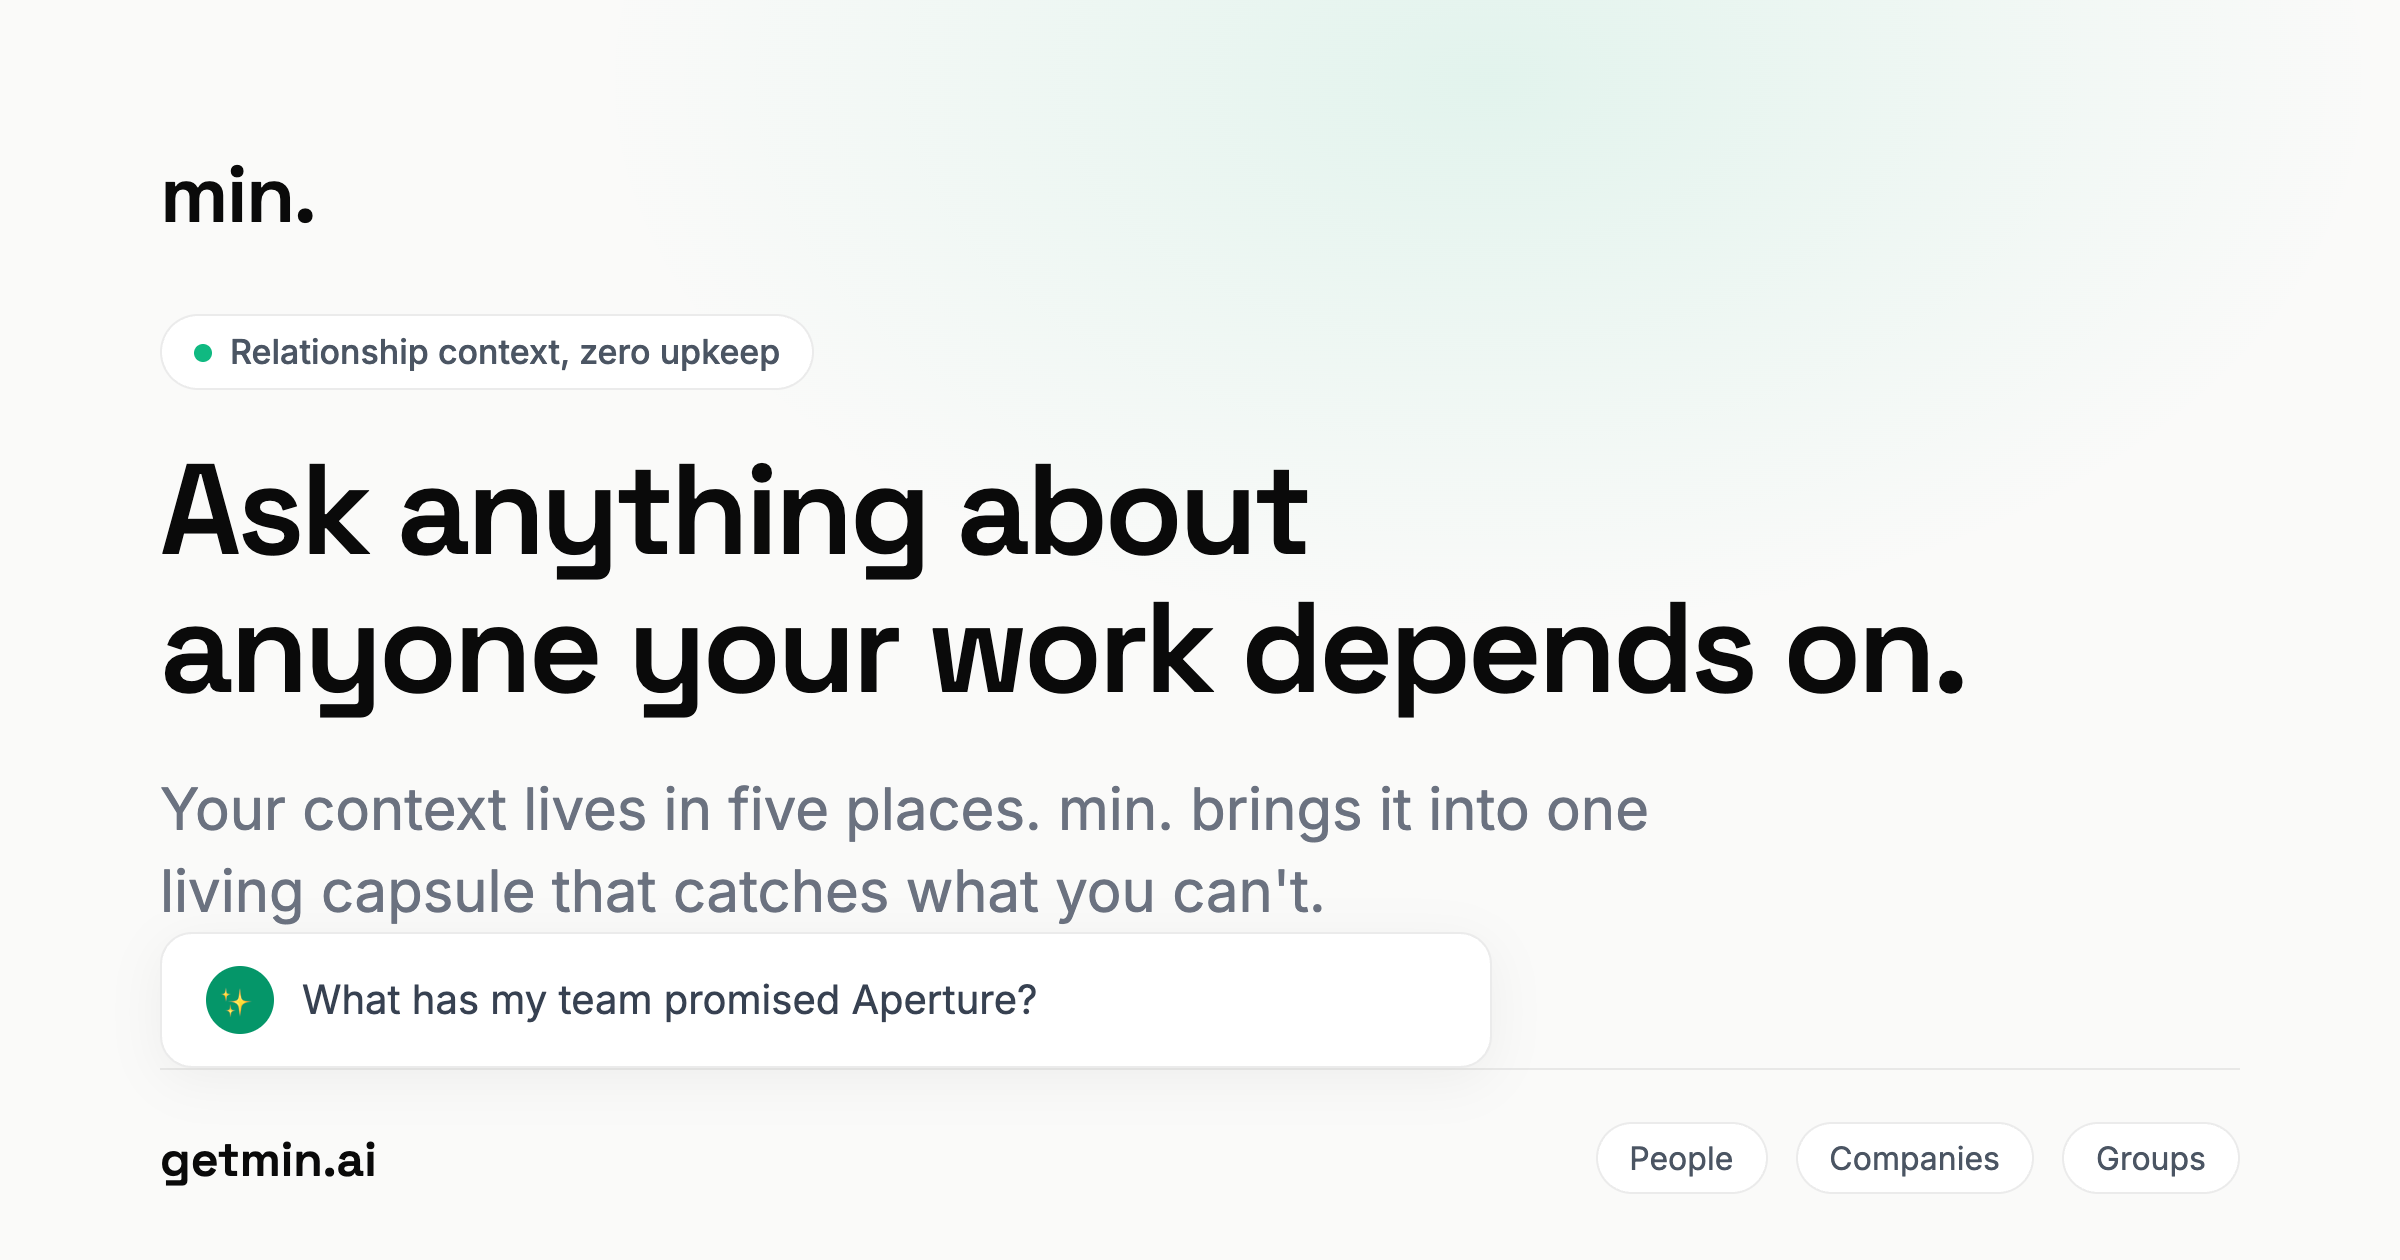
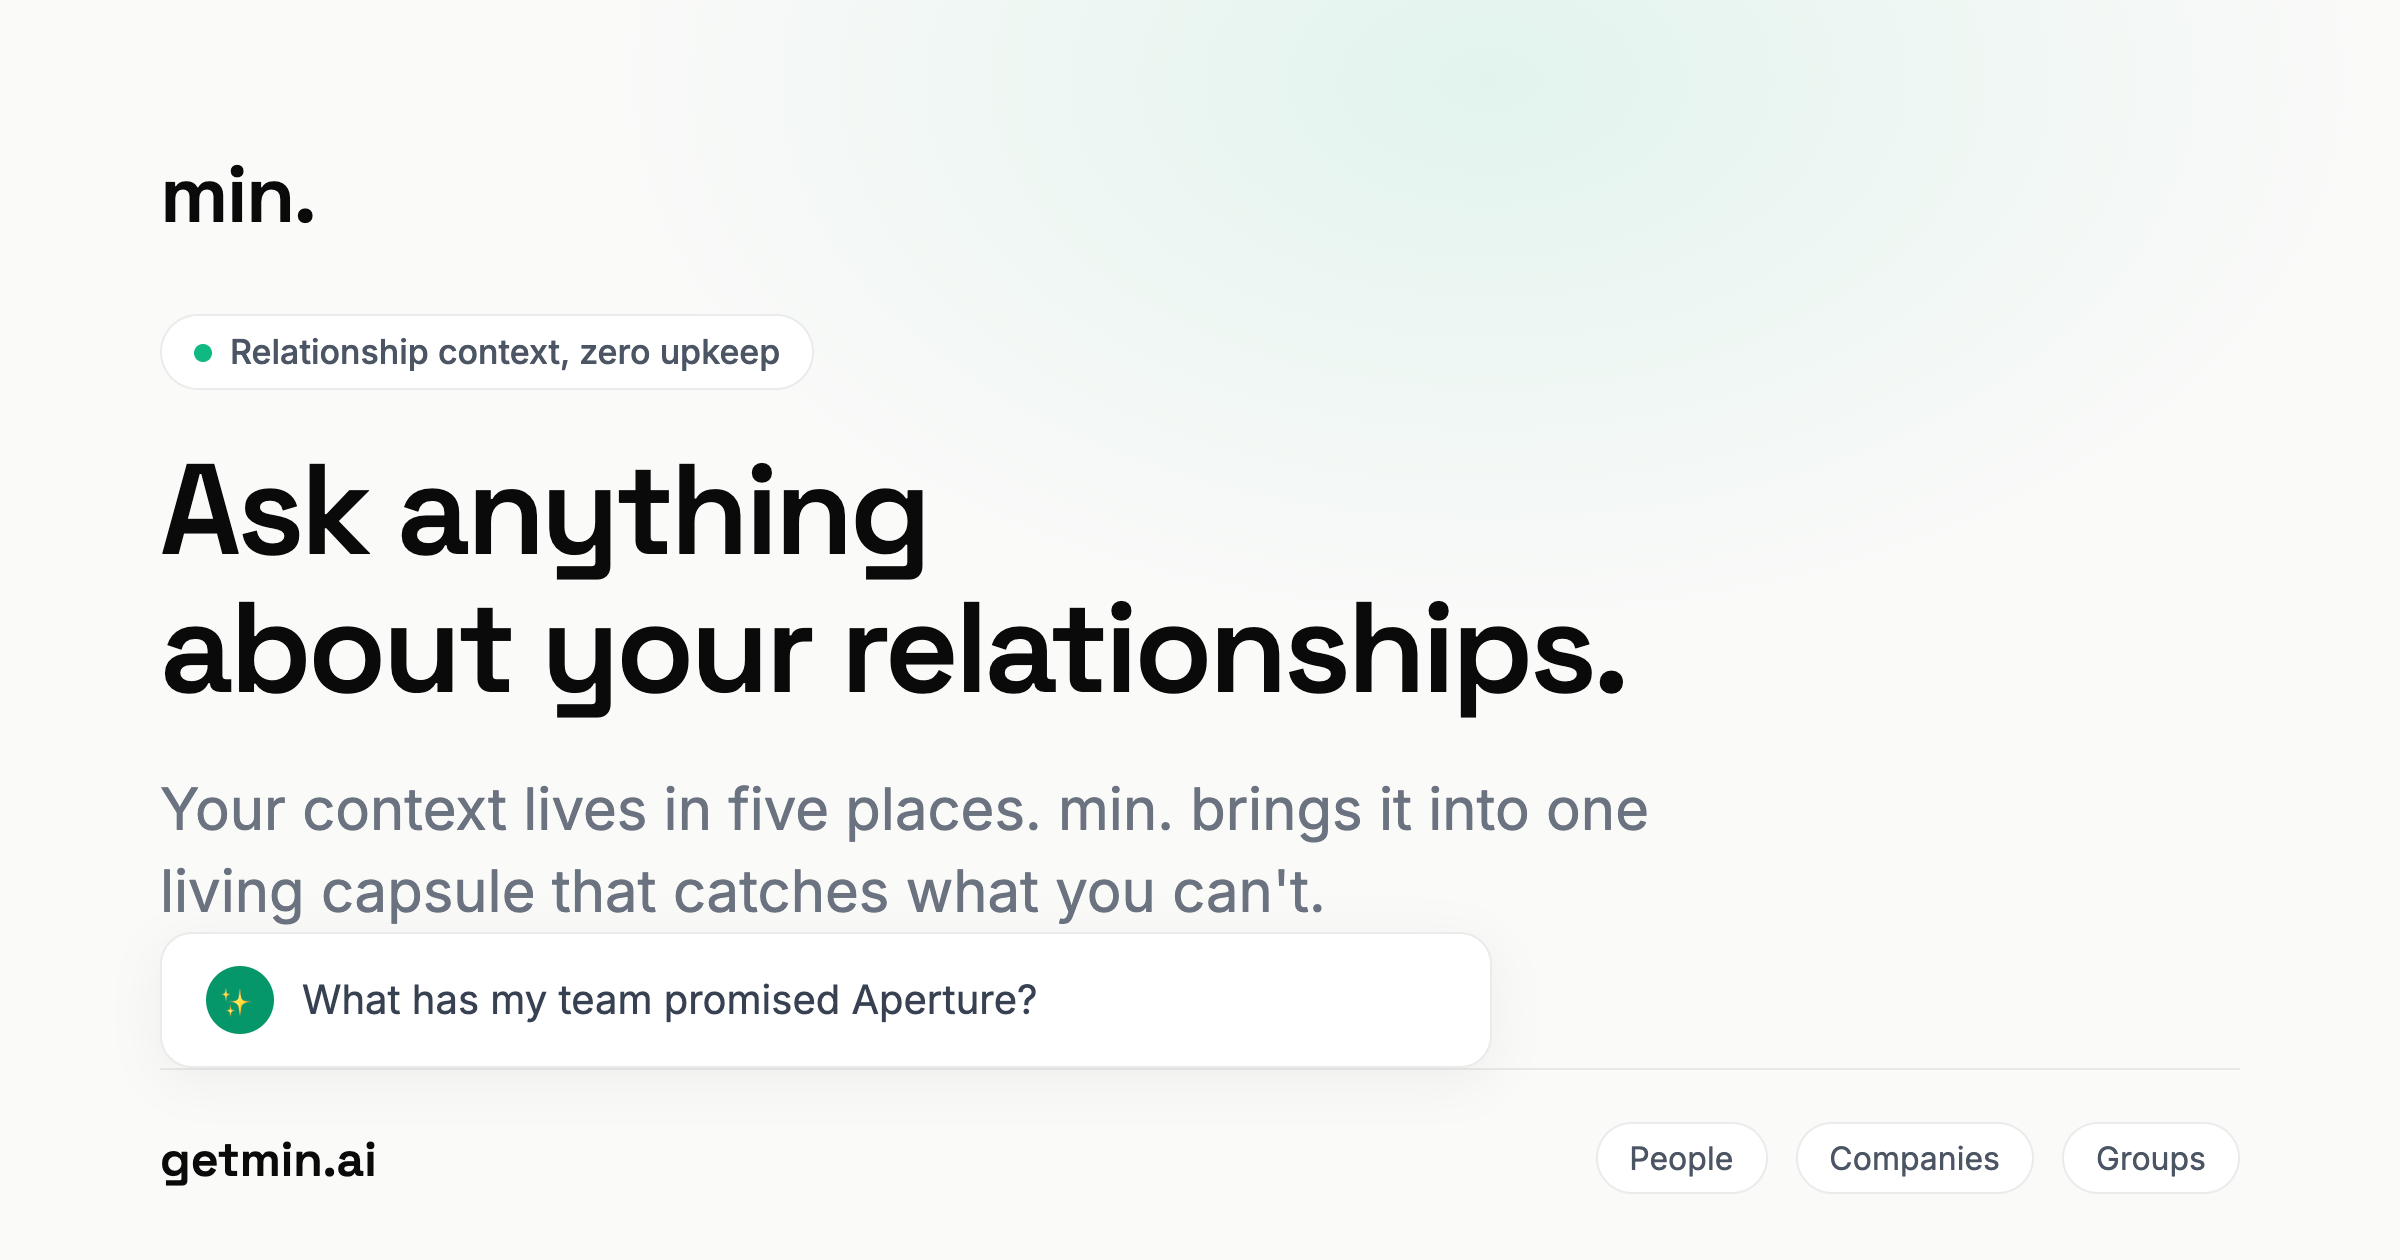
Hero: ask anything about your relationships
"Anyone your work depends on" had the stakes but not the category noun.
The user's line puts relationships back in the headline: "Ask anything
about your relationships." OG card re-rendered to match.

Changed region(s): [[0.0938, 0.3714, 0.8125, 0.5881]]

diff --git a/public/og-image.html b/public/og-image.html
@@ -149,8 +149,8 @@
                 <div class="logo">min.</div>
                 <div class="badge"><span class="badge-dot"></span>Relationship context, zero upkeep</div>
                 <div class="headline">
-                    Ask anything about<br>
-                    anyone your work depends on.
+                    Ask anything<br>
+                    about your relationships.
                 </div>
                 <div class="subheadline">
                     Your context lives in five places. min. brings it into one living capsule that catches what you can't.

diff --git a/src/components/landing/LandingHero.tsx b/src/components/landing/LandingHero.tsx
@@ -22,8 +22,8 @@ export default function LandingHero() {
 
           <FadeIn delay={0.1}>
             <h1 className="font-display text-[2.6rem] font-semibold leading-[1.08] tracking-tight text-gray-900 sm:text-5xl md:text-6xl">
-              Ask anything about
-              <br className="hidden sm:block" /> anyone your work depends on.
+              Ask anything
+              <br className="hidden sm:block" /> about your relationships.
             </h1>
           </FadeIn>
 
